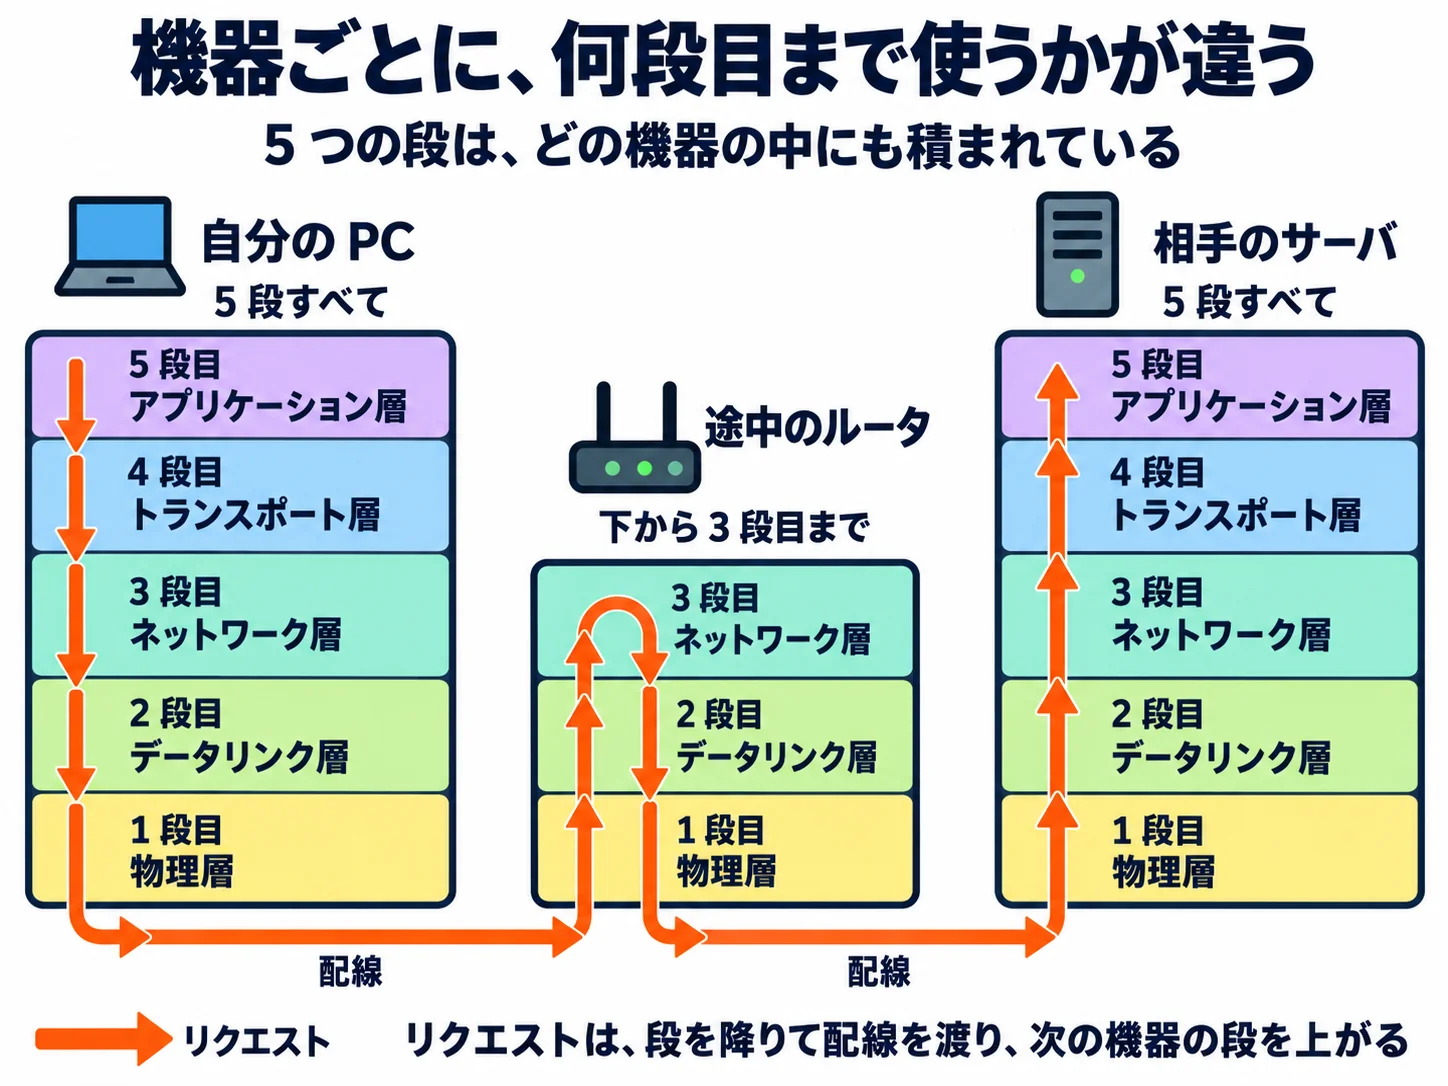
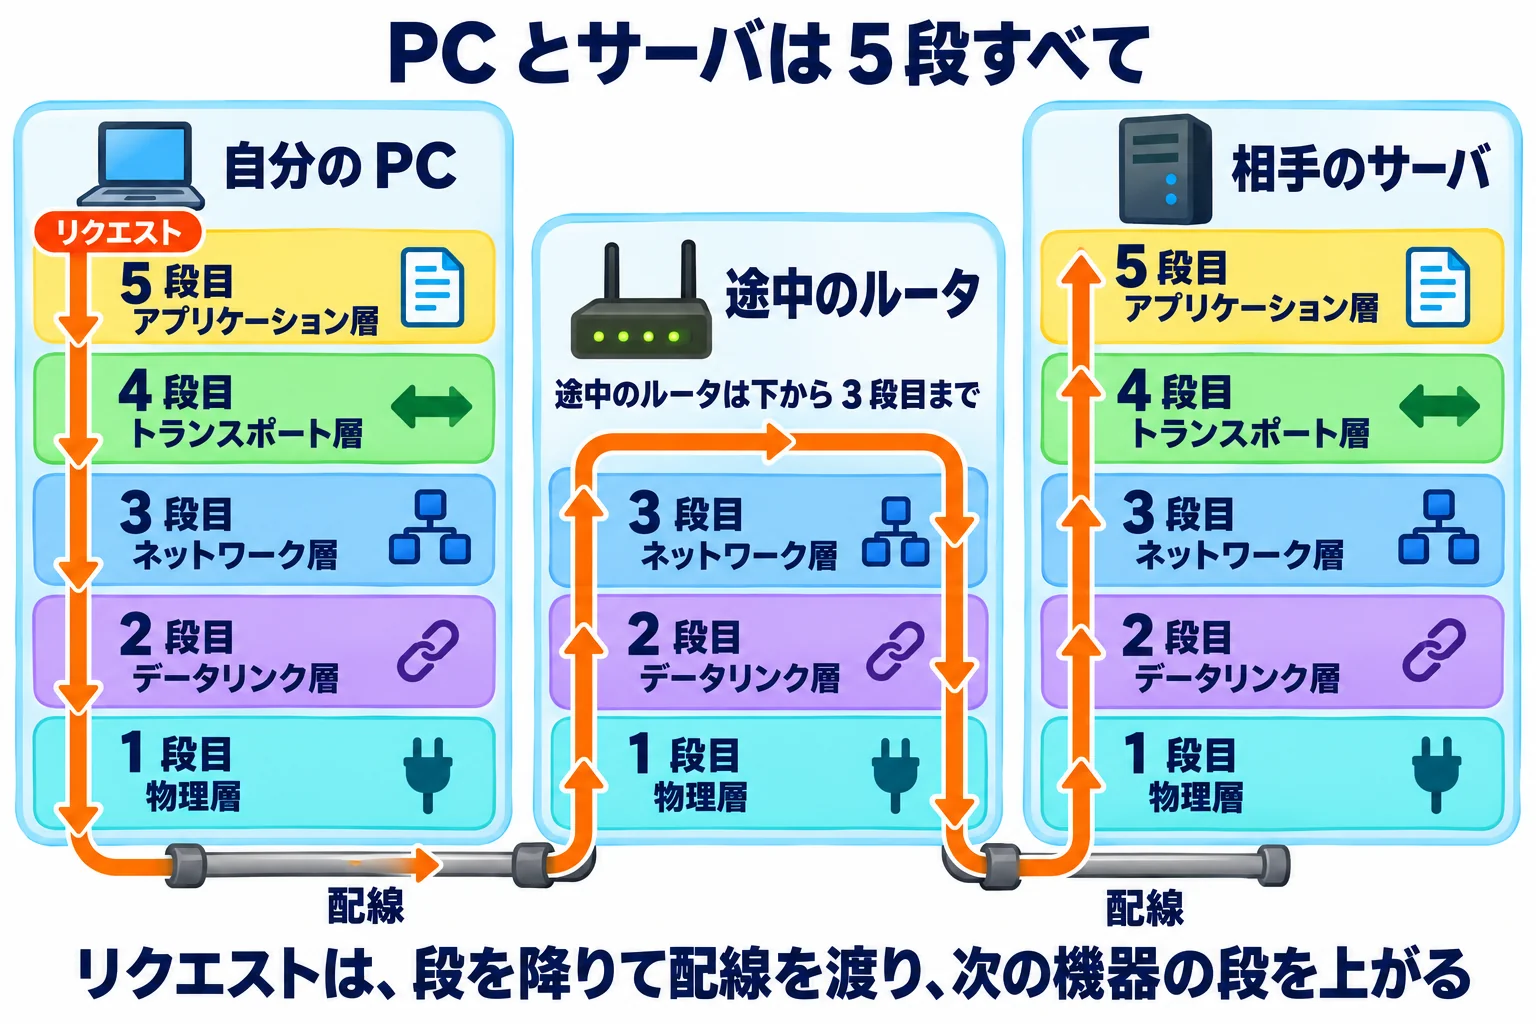
deploy: 8f1f80e 2026-10-20

diff --git a/m01-4.html b/m01-4.html
@@ -47,7 +47,7 @@
     <p class="t" data-who="ふくろう先生">何段目まで使うか、だけです。まず 5 段の全体を図で見てから、下から 1 段ずつ確認しましょう。</p>
 
     <div class="fig-sec">
-    <img src="assets/fig/m01-4-layers.webp" alt="通信の仕事を 5 つの段に分けた表。上が利用者に近く、下が回線に近い。5 段目 アプリケーション層: 役割は何をしてほしいかを伝える、宛先・手がかりは URL や、その先の中身。4 段目 トランスポート層: 届いた機器の中のどのアプリに渡すか、ポート番号。3 段目 ネットワーク層: ネットワークをまたいで最終的な届け先まで運ぶ、IP アドレス。2 段目 データリンク層: 同じ配線の中で、隣の機器へ渡す、隣の機器に付いた番号。1 段目 物理層: 0 と 1 を信号にして運ぶ、電気信号や電波。" width="1448" height="1086" loading="lazy">
+    <img src="assets/fig/m01-4-layers.webp" alt="通信の仕事を 5 つの段に分けた図。5 つの段をカードとして縦に積み、上が利用者に近く、下が回線に近い。段の間は下向きの矢印でつながり、各段に層を表すアイコンがある。5 段目 アプリケーション層: 役割は何をしてほしいかを伝える、宛先・手がかりは URL や、その先の中身。4 段目 トランスポート層: 届いた機器の中のどのアプリに渡すか、ポート番号。3 段目 ネットワーク層: ネットワークをまたいで最終的な届け先まで運ぶ、IP アドレス。2 段目 データリンク層: 同じ配線の中で、隣の機器へ渡す、隣の機器に付いた番号。1 段目 物理層: 0 と 1 を信号にして運ぶ、電気信号や電波。" width="1536" height="1024" loading="lazy">
     <!-- 画像の文字版。画面には出さず、検索や HTML を読む AI が読めるように残す -->
     <pre class="fig" hidden>上(利用者に近い)
 +--------------------------------------+
@@ -89,7 +89,7 @@
     <p class="t" data-who="ふくろう先生">こうなります。</p>
 
     <div class="fig-sec">
-    <img src="assets/fig/m01-4-devices.webp" alt="機器ごとに何段目まで使うかが違うことを示す図。5 つの段は、どの機器の中にも積まれている。自分の PC と相手のサーバは 1 段目 物理層から 5 段目 アプリケーション層まで 5 段すべてを使い、途中のルータは下から 3 段目 ネットワーク層までを使う。リクエストの矢印は、PC の 5 段目から 1 段目へ降り、配線を渡ってルータの 1 段目から 3 段目へ上がり、また 1 段目へ降りて次の配線を渡り、サーバの 1 段目から 5 段目へ上がる。リクエストは、段を降りて配線を渡り、次の機器の段を上がる。" width="1448" height="1086" loading="lazy">
+    <img src="assets/fig/m01-4-devices.webp" alt="機器ごとに何段目まで使うかが違うことを示す図。自分の PC・途中のルータ・相手のサーバの 3 枚のカードに、同じ 5 つの段が色分けして積まれている。自分の PC と相手のサーバは 1 段目 物理層から 5 段目 アプリケーション層まで 5 段すべてを使い、途中のルータは下から 3 段目 ネットワーク層までを使う。リクエストの矢印は、PC の 5 段目から 1 段目へ降り、配線を渡ってルータの 1 段目から 3 段目へ上がり、また 1 段目へ降りて次の配線を渡り、サーバの 1 段目から 5 段目へ上がる。リクエストは、段を降りて配線を渡り、次の機器の段を上がる。" width="1536" height="1024" loading="lazy">
     <!-- 画像の文字版。画面には出さず、検索や HTML を読む AI が読めるように残す -->
     <pre class="fig" hidden> 自分の PC   途中のルータ  相手のサーバ
  +---+                     +---+
